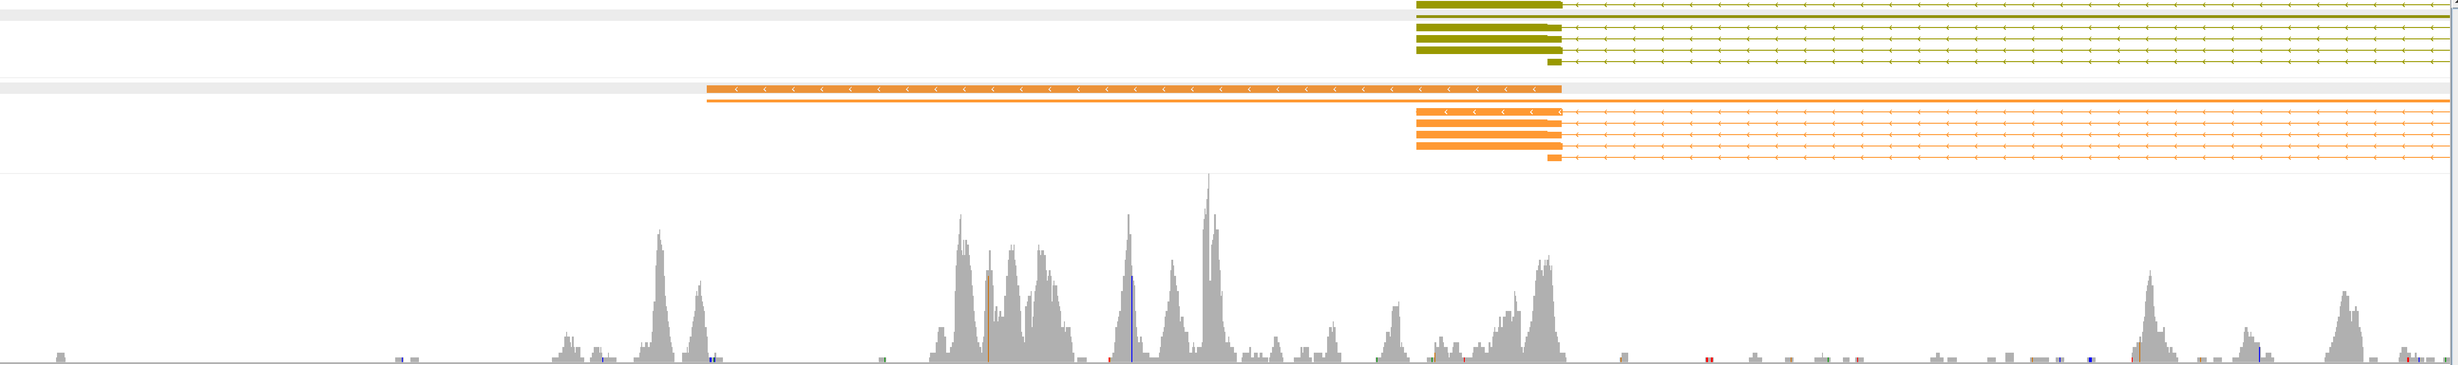
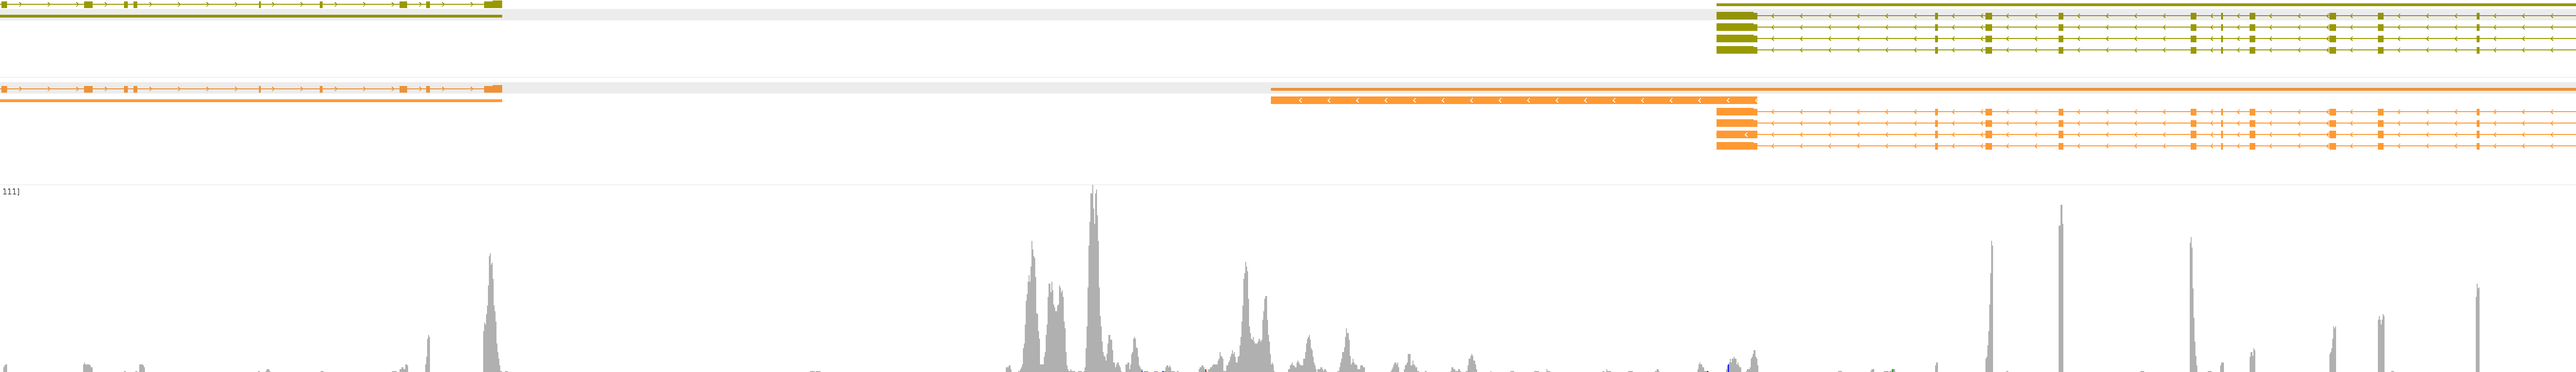
added peak filtering by coverage

diff --git a/geneext/helper.py b/geneext/helper.py
@@ -40,6 +40,48 @@ def collect_macs_beds(outdir,outfile,verbose = False):
     if verbose:
         print('Done collecting beds: %s' % (outfile))
 
+def get_coverage(inputbed_a = None,input_bam = None,outputfile = None,verbose = False):
+    cmd = 'bedtools coverage -a %s -b %s -s -counts > %s' % (inputbed_a,input_bam,outputfile)
+    if verbose:
+        print('Running:\n%s' % cmd)
+    ps = subprocess.run(cmd,shell=True,stdout=subprocess.PIPE,stderr=subprocess.STDOUT)
+
+#def filter_by_coverage(inputfile = None,outputfile = None,verbose = False):
+#    """Given a bedtools coverage result, filter the file by the last column."""
+#    count_threshold = 1000
+#    cmd = "awk '$NF>=%s' %s > %s" % (str(count_threshold),inputfile,outputfile)
+#    if verbose:
+#        print('Running:\n%s' % cmd)
+#    ps = subprocess.run(cmd,shell=True,stdout=subprocess.PIPE,stderr=subprocess.STDOUT)
+
+def filter_by_coverage(inputfile = None,outputfile = None,percentile = 75,verbose = False):
+    """Given a bedtools coverage result, filter the file by the last column based on either a pre-defined coverage threshold or percentile"""
+    if not percentile:
+        count_threshold = 500 # absolutely arbitrary peak coverage threshold
+    else:
+        if verbose:
+            print('Coverage threshold not set. Getting a %s-th percentile ...' % percentile)
+        cmd = "cut -f 7 %s  | sort -n | awk 'BEGIN{c=0} length($0){a[c]=$0;c++}END{p=(c/100*%s); p=p%%1?int(p)+1:p; print a[c-p-1]}'" % (inputfile,str(100-percentile))
+        if verbose:
+            print('Running:\n%s' % cmd)
+        ps = subprocess.Popen(cmd,shell=True,stdout=subprocess.PIPE,stderr=subprocess.STDOUT)
+        out = ps.communicate()[0].decode("utf-8").rstrip()
+        count_threshold = out
+        if verbose:
+            print('%s-th coverage percentile for %s is %s reads. Filtering out the peaks below this value...' % (percentile,inputfile,str(count_threshold)))
+
+    cmd = "awk '$NF>=%s' %s | cut -f 1-6 > %s" % (str(count_threshold),inputfile,outputfile)
+    if verbose:
+        print('Running:\n%s' % cmd)
+    ps = subprocess.run(cmd,shell=True,stdout=subprocess.PIPE,stderr=subprocess.STDOUT)
+    # Report how many peaks have been retained:
+    if verbose:
+        ps = subprocess.Popen('wc -l %s' % outputfile,shell=True,stdout=subprocess.PIPE,stderr=subprocess.STDOUT)
+        n = ps.communicate()[0].decode("utf-8").rstrip().split(' ')[0]
+        ps = subprocess.Popen('wc -l %s' % inputfile,shell=True,stdout=subprocess.PIPE,stderr=subprocess.STDOUT)
+        N = ps.communicate()[0].decode("utf-8").rstrip().split(' ')[0]
+        print('Retained %s/%s (%s %%)' % (str(n),str(N),str(round(int(n)/int(N)*100,2))))
+
 def outersect(inputbed_a,inputbed_b,outputbed,by_strand = True,verbose = False):
     """This function returns non-overlapping peaks"""
     if by_strand:
@@ -50,7 +92,7 @@ def outersect(inputbed_a,inputbed_b,outputbed,by_strand = True,verbose = False):
     if verbose:
         print('Running:\n%s' % cmd)
     ps = subprocess.run(cmd,shell=True,stdout=subprocess.PIPE,stderr=subprocess.STDOUT)
-
+        
 # Parse helper
 def gxf2bed(infile,outfile,featuretype = None):
     """This function loads the gff/gtf file and returns a bed file"""
@@ -83,15 +125,12 @@ def guess_format(filepath,verbose = False):
     else:
         raise(ValueError('Can not determine the format of the file - is it gtf/gff or bed?\n%s' % '\n'.join(head)))
 
-
-
 def parse_bed(infile):
     with open(infile) as file:
         lines = [line.rstrip().split('\t') for line in file if not '#' in line]
         regs = [Region(chrom = x[0],start = int(x[1]),end = int(x[2]),id = str(x[3]),strand = str(x[5]),score = int(x[4])) for x in lines]
         return(regs)
     file.close()
-
 
 def parse_gff(infile,featuretype = None):
     def gff_get_ID(x):
@@ -521,9 +560,7 @@ def extend_gff(db,extend_dictionary,output_file,extension_mode,tag,verbose = Fal
 def extend_gtf(db,extend_dictionary,output_file,extension_mode = 'new_transcript',tag = None,verbose = False):
     raise(NotImplementedError('Extension is not yet available for .gtf files!'))
 
-
 # Gene extension function 
-
 def extend_genes(genefile,peaksfile,outfile,maxdist,temp_dir,verbose,extension_type,infmt=None,outfmt=None,tag = 'ext'):
     # files with extensions:
     extension_table = temp_dir + '/extensions.tsv'

diff --git a/geneext.py b/geneext.py
@@ -21,6 +21,7 @@ parser.add_argument('-v', default = int(1), help = 'Verbosity level. 0,[1],2')
 parser.add_argument('-j', default = '1', help = 'Number of cores for samtools. [1]')
 parser.add_argument('-e', default = 'new_transcript', help = 'How to extend the gene (only for .gff/.gtf files) [new_mrna]\n\t* new_transcript - creates a new transcript feature with the last exon extended\n\t* new exon - creates an extended last exon')
 parser.add_argument('--orphan',action='store_true', help = 'NOT IMPLEMENTED! Whether to add orphan peaks')
+parser.add_argument('--peakp',default = 75, 'Percentile of peaks to retain for gene extension. [0-100], default [75].\nThis parameter allows to filter out the peaks based on the coverage')
 #parser.add_argument('--debug', action='store_true', help = 'Maximum verbosity for debugging')
 args = parser.parse_args()
 
@@ -129,7 +130,6 @@ def outersect_peaks():
         helper.outersect(inputbed_a = genefile_bed,inputbed_b = peaksfile,outputbed=peaksfilt,by_strand = True, verbose = verbose)
     else:
         helper.outersect(inputbed_a = genefile,inputbed_b = peaksfile,outputbed=peaksfilt,by_strand = True, verbose = verbose)
-    quit()
 
 # Orphan peaks   ----- move to the helper later
 # implement
@@ -163,15 +163,16 @@ if __name__ == "__main__":
     if do_macs2:
         print('Runnig macs2.')
         peaksfile = tempdir + '/' + 'allpeaks.bed'
+
         helper.split_strands(bamfile,tempdir,verbose = verbose,threads = threads)
         helper.run_macs2(tempdir+'/' + 'plus.bam','plus',tempdir,verbose = verbose)
         helper.run_macs2(tempdir+'/' + 'minus.bam','minus',tempdir,verbose = verbose)
         helper.collect_macs_beds(outdir = tempdir,outfile = peaksfile,verbose = verbose)
+
     else:
         print('Skipping macs2. Running gene extension with %s and %s.' % (peaksfile,genefile))
 
-# 2. Peak filtering 
-    # outersect peaks with genes:
+# 2. Remove peaks overlapping genes:
     peaksfilt = tempdir + '/' + 'allpeaks_noov.bed'
     print(peaksfile)
     if infmt != 'bed':
@@ -183,6 +184,19 @@ if __name__ == "__main__":
     else:
         print("Filtering peaks.")
         helper.outersect(inputbed_a = genefile,inputbed_b = peaksfile,outputbed=peaksfilt,verbose = verbose)
+
+# 3. If used macs to call the peaks, filter the peaks by the coverage:
+    if do_macs2:    
+        print('Calculating peak coverage...')
+        covfile = tempdir + '/' + 'allpeaks_noov_coverage.bed'
+        #tmp_peakfile = tempdir + '/' + 'allpeaks_noov.bed_tmp'
+        # copy filtered file with peaks
+        os.system('cp %s %s' % (peaksfilt,peaksfilt + '_tmp'))
+        helper.get_coverage(inputbed_a=peaksfilt,input_bam = bamfile,outputfile = covfile,verbose = True)
+        print('Filtering by coverage ...')
+        helper.filter_by_coverage(inputfile = covfile,outputfile = peaksfilt,verbose = True)
+
+
 # 3. Extend genes 
     helper.extend_genes(genefile = genefile,peaksfile = peaksfilt,outfile = outputfile,maxdist = int(maxdist),temp_dir = tempdir,verbose = verbose,extension_type = extension_mode,infmt = infmt,outfmt = outfmt,tag = tag)
     #helper.extend_genes(genefile,peaksfile,outputfile,int(maxdist),tempdir,verbose,extension_mode,tag = tag)

diff --git a/README.md b/README.md
@@ -1,8 +1,10 @@
 !['header'](./img/top.png)
-# GeneExt - Gene extension for improved scRNA-seq data counting   
+# GeneExt - Gene extension for improved single-cell RNA-seq data counting   
 
 # Not Implemented:
-- [ ] coverage filtering for the peaks  
+- [x] coverage filtering for the peaks  
+  - [x] how to filter the peaks? 
+  - [ ] shall we filter before or after the extension - test  
 - [ ] orphan peak linkage via splice junctions  
 - [ ] clean temporary directory  
 - [ ] to output gtf files for bed inputs  
